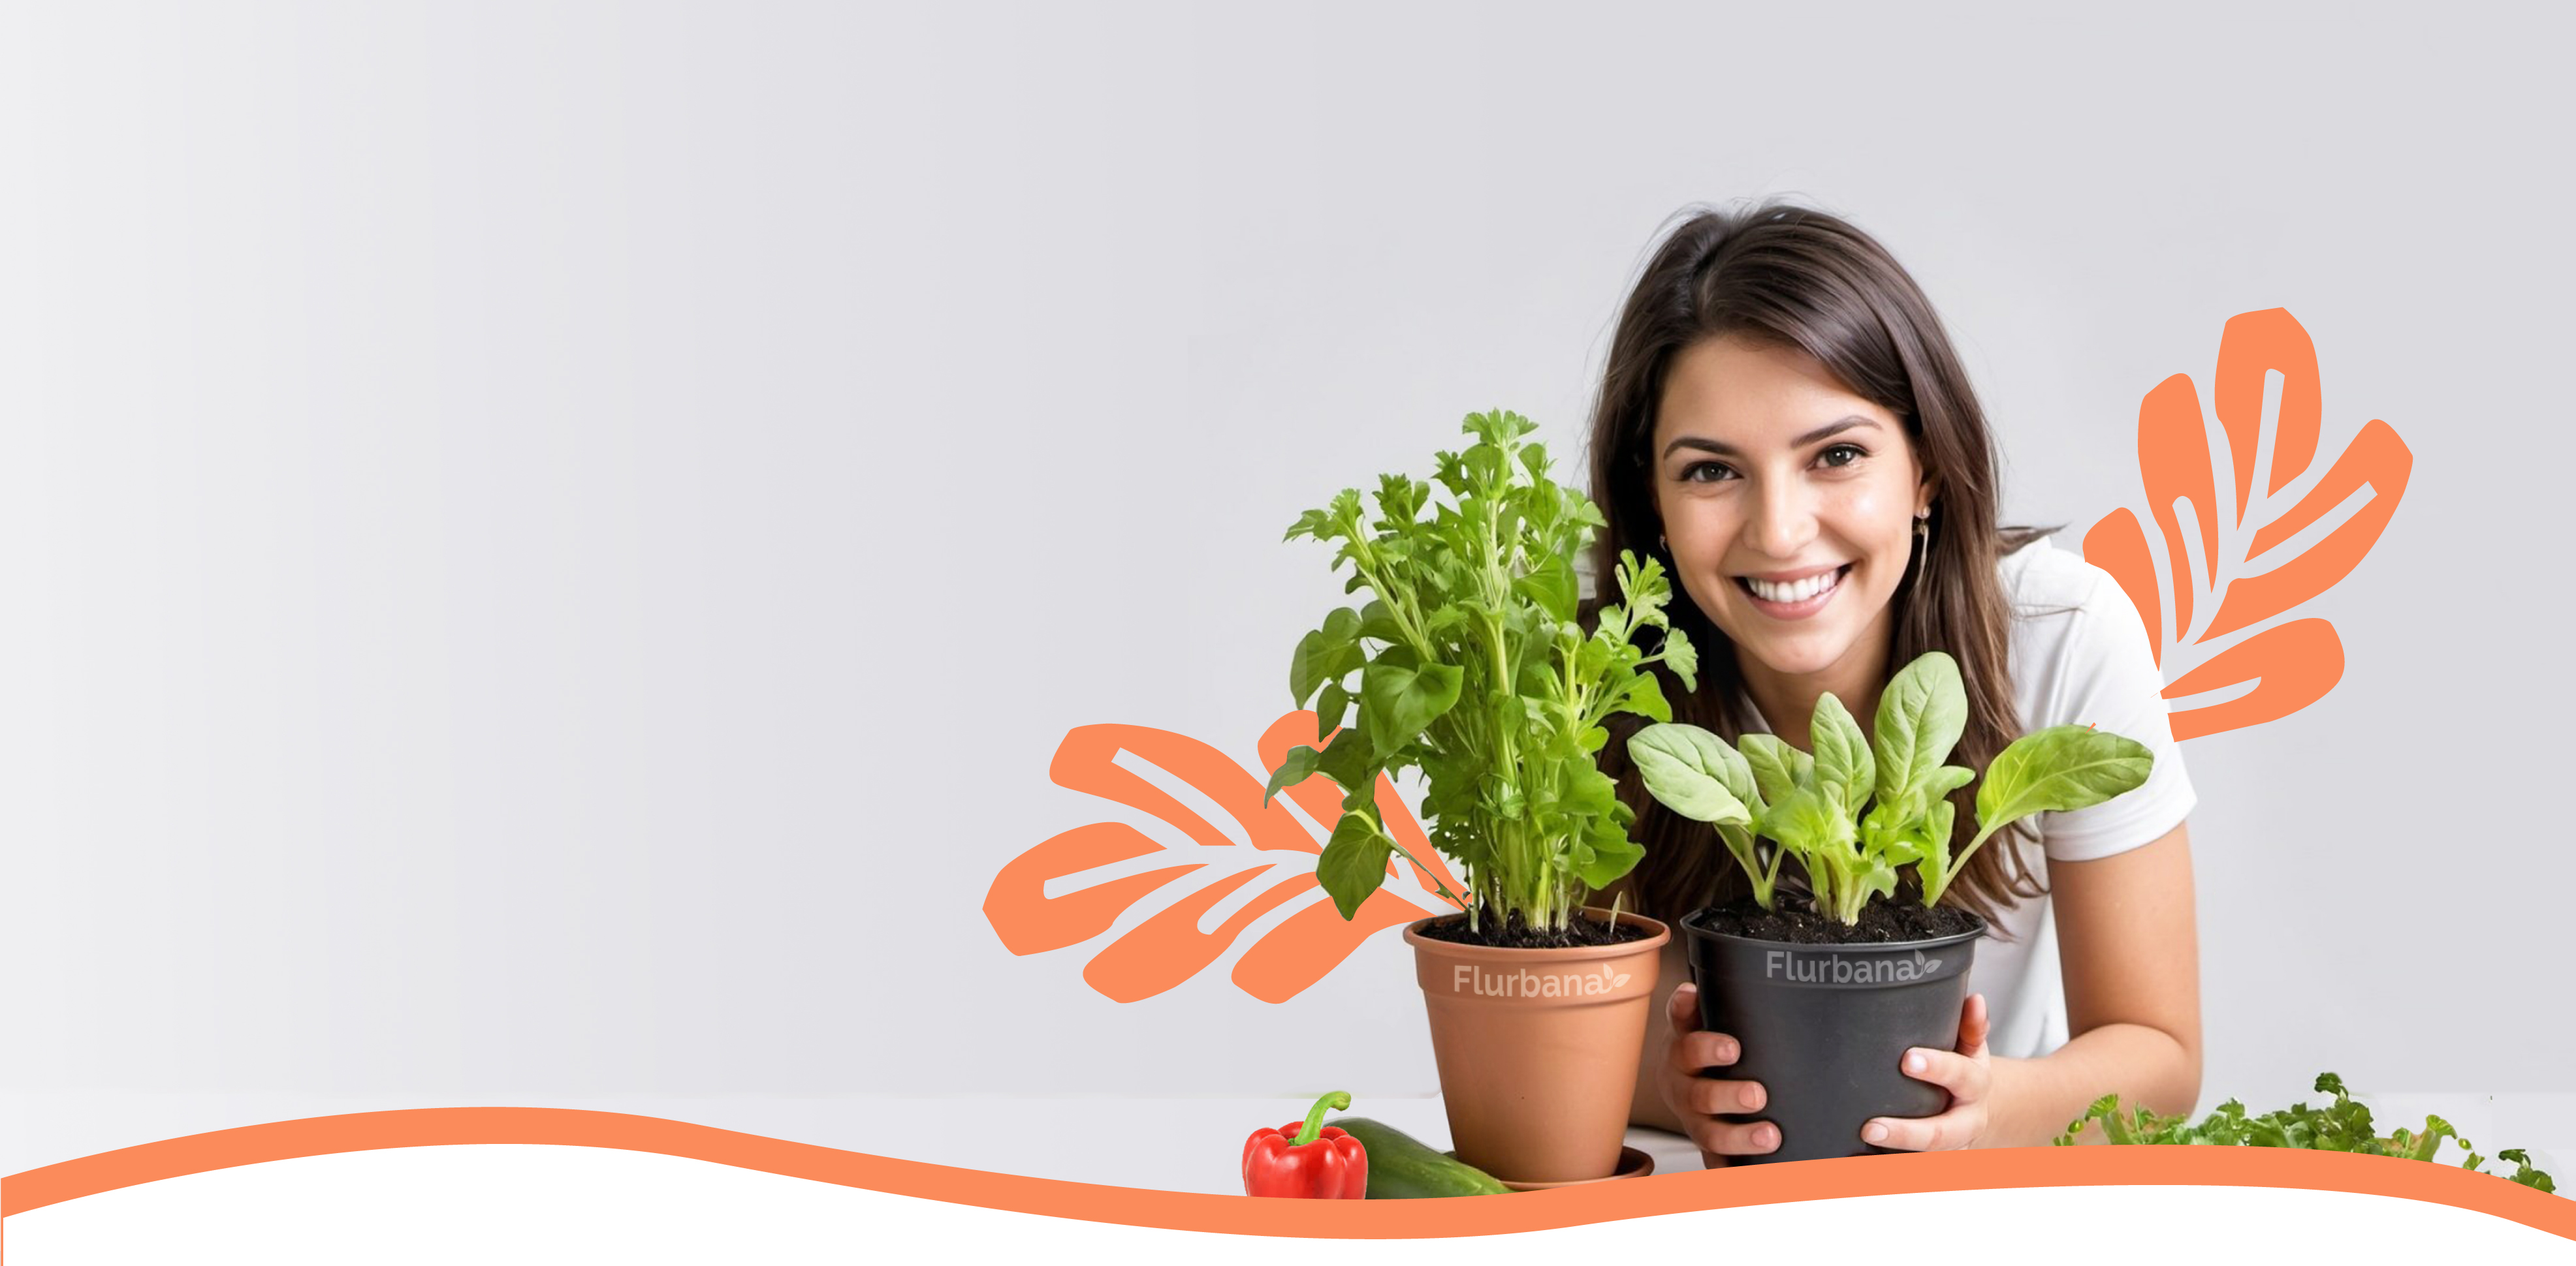
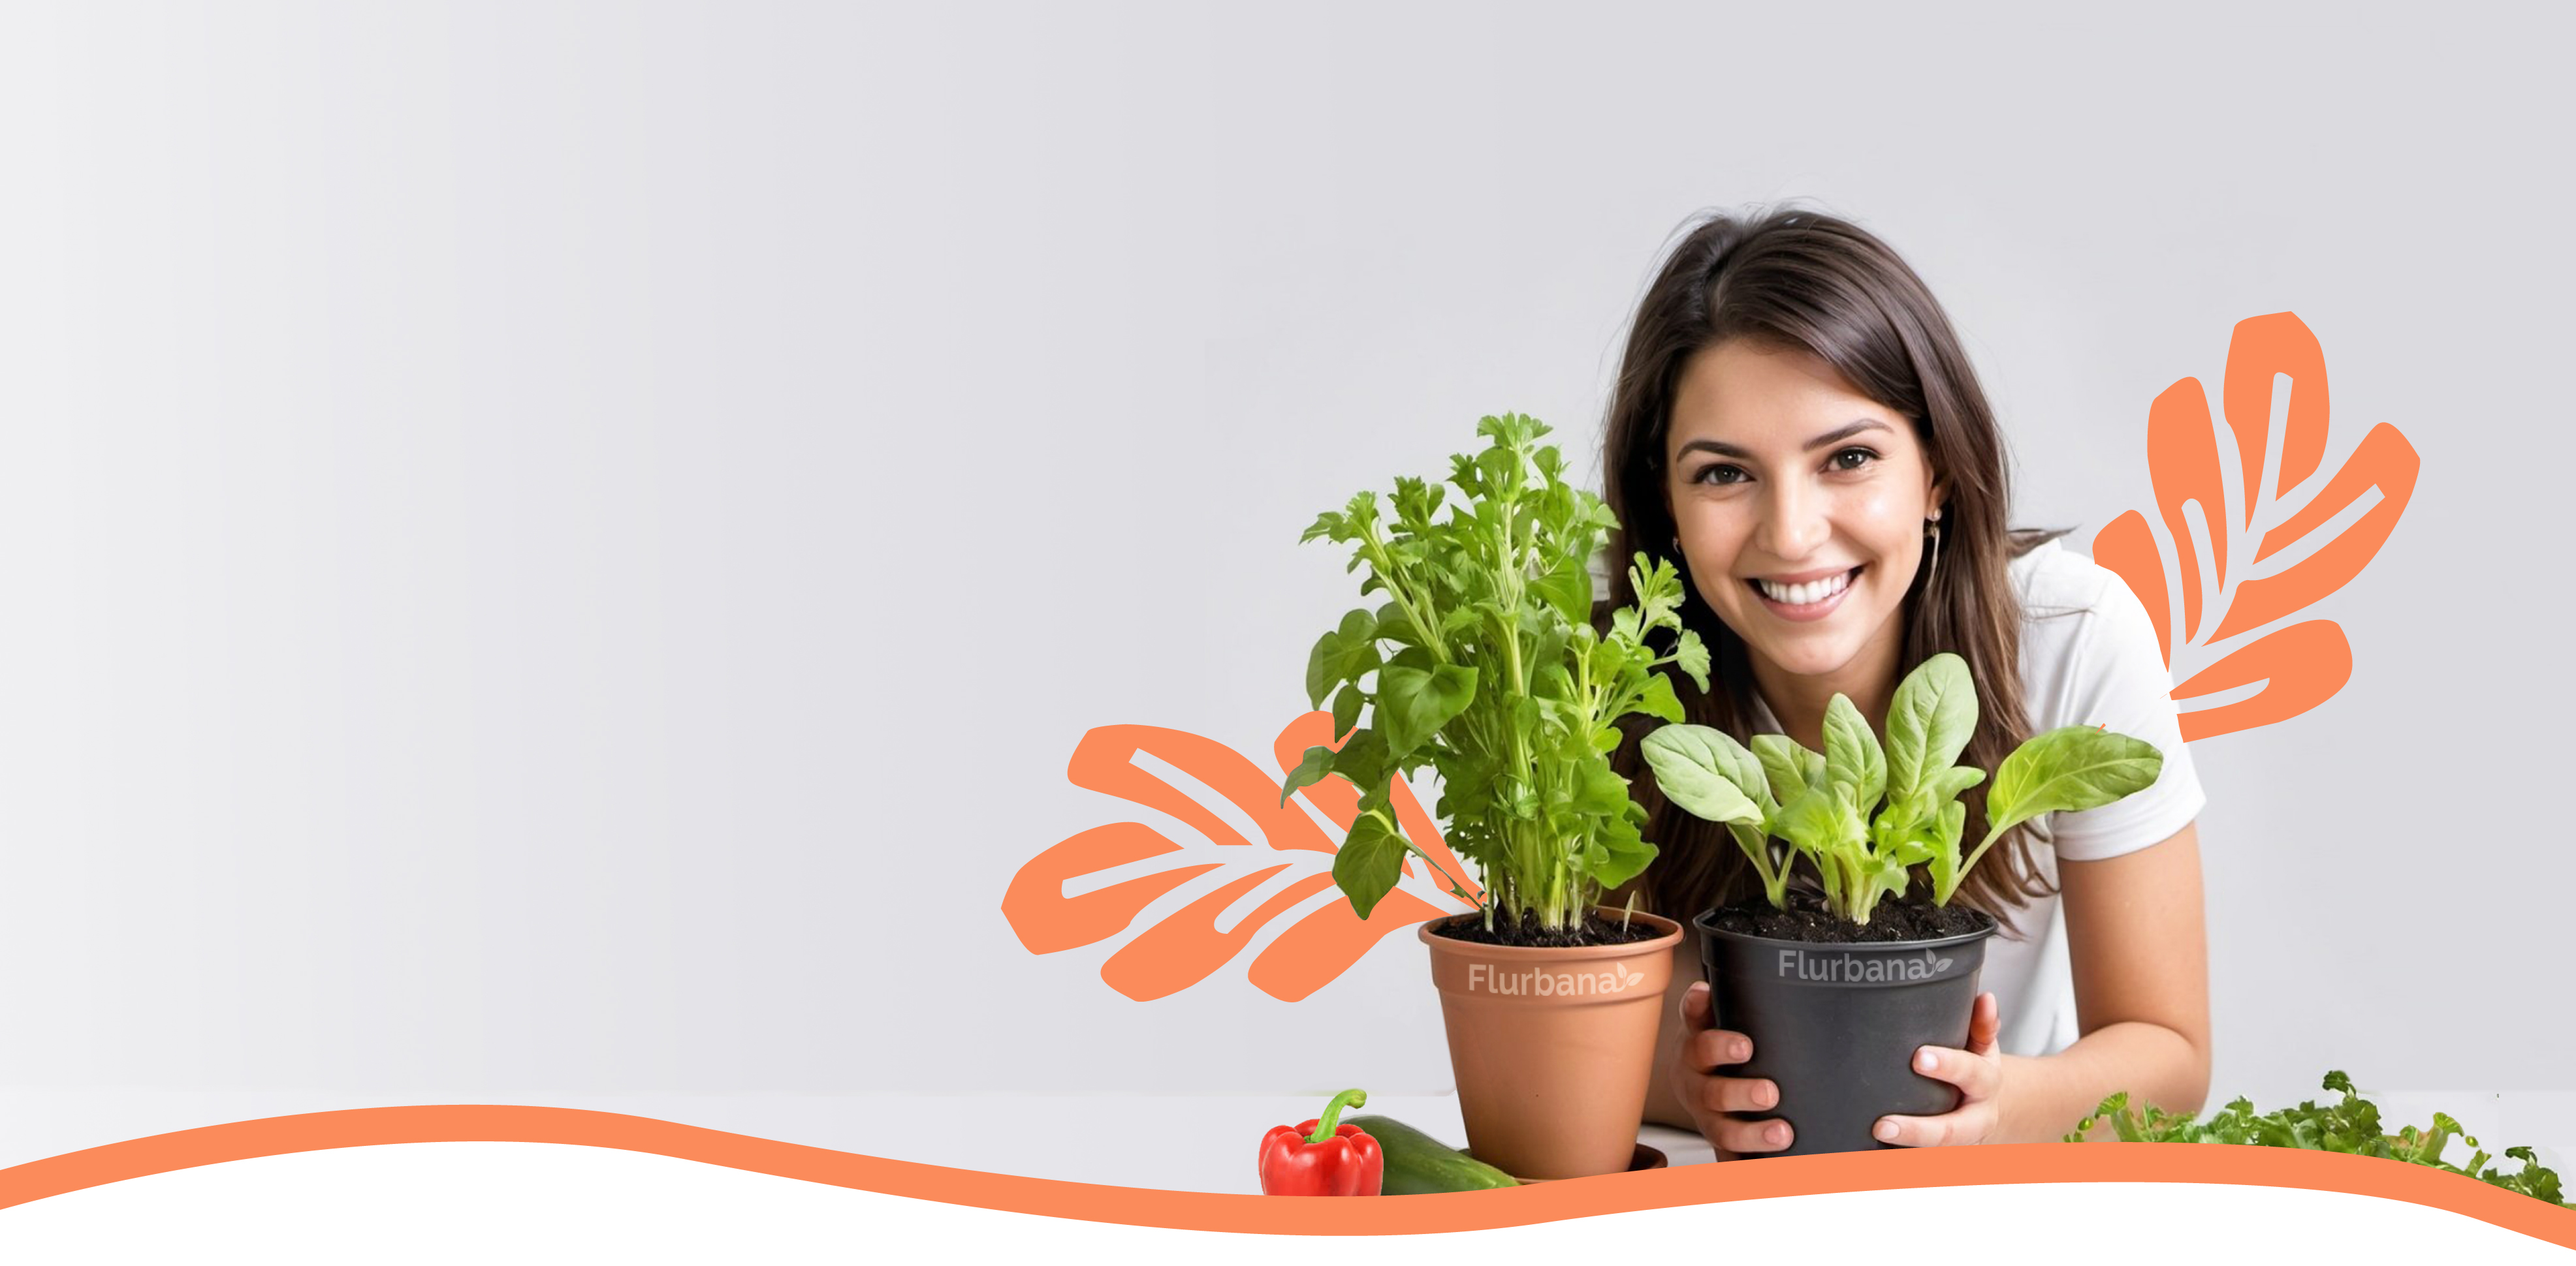
tp flurbana
entregafinalfinal

Changed region(s): [[0.3741, 0.1546, 1.0, 0.9897], [0.0, 0.866, 0.1559, 0.9588]]

diff --git a/assets/css/style.css b/assets/css/style.css
@@ -407,9 +407,10 @@ h6 {
 --------------------------------------------------------------*/
 #hero {
   width: 100%;
-  height: 60vh;
-  background: url("../img/hero-bg.jpg") top center;
+  height: 80vh;
+  background: url("../img/hero-bg.jpg") center top;
   background-size: contain;
+  background-repeat: no-repeat;
   position: relative;
   text-align: left;
 
@@ -515,7 +516,7 @@ width: 540px;
 --------------------------------------------------------------*/
 #herocurso {
   width: 100%;
-  height: 60vh;
+  height: 80vh;
   background: url("../img/detalle/hero-detalle.jpg") top center;
   background-size: contain;
   position: relative;
